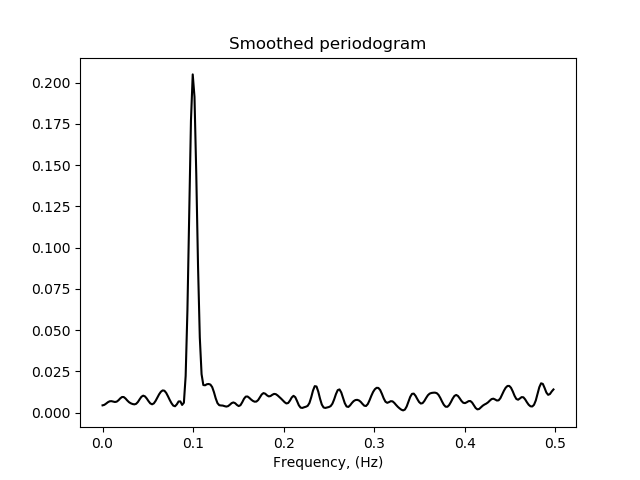
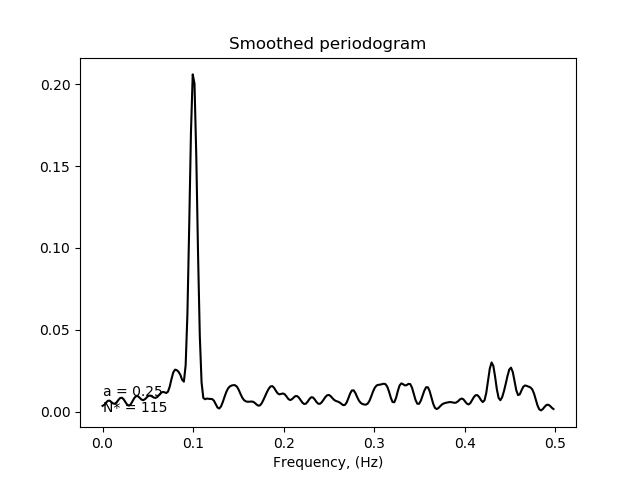
stupid text align

diff --git a/main.py b/main.py
@@ -189,6 +189,13 @@ def main():
         color = 'black',
     )
 
+    graph.text(
+        0,
+        0,
+        "a = " + str(a_Tukey) +"\n" + 
+        "N* = " + str(N_Tukey),
+    )
+
     plot_smooth_period.savefig(fnames.plot('smoothed_periodogram'))
 
     graph.clf()
